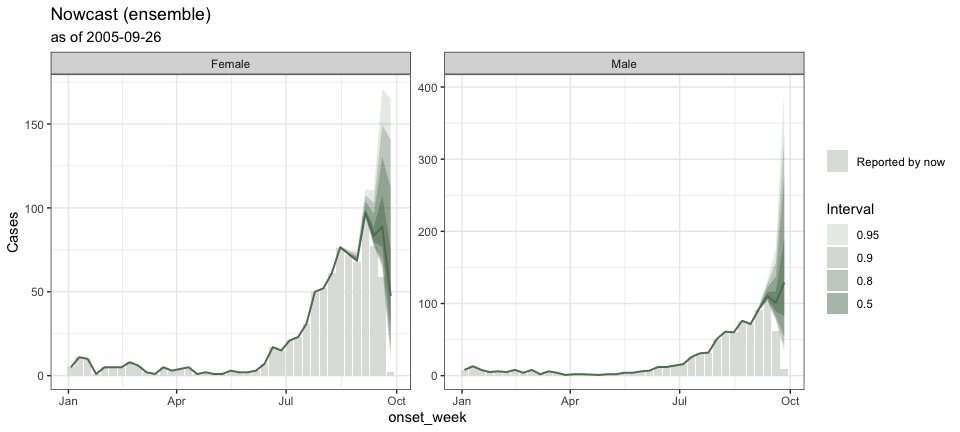
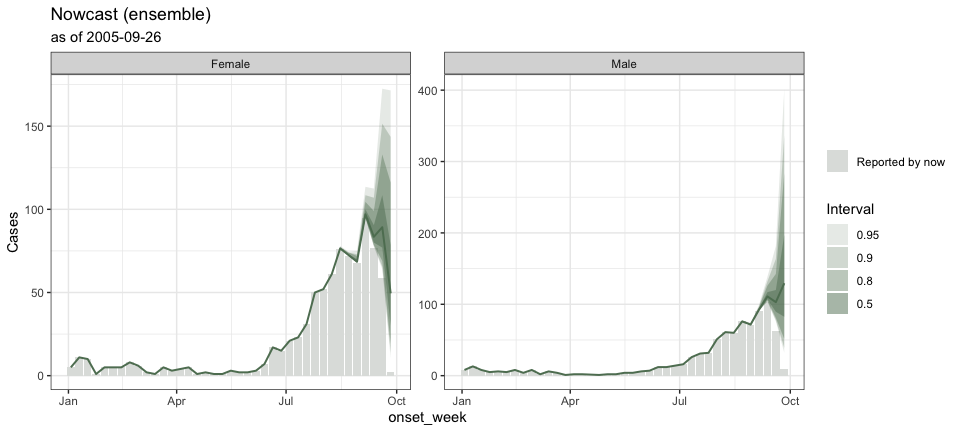
Refresh README, fragment, and figures
Add reproducible seed to README.Rmd and clean up duplicated/edited README copy (fix typos and consolidate the "Learning more" fragment). Simplify the inst/fragments comment, reword and expand the Learning more links (add ensemble and custom model pages, clarify diagnostics/tutorial entries), and update the generated man figures (three PNGs were refreshed). These are presentation/documentation changes and regenerate vignette images for consistency.

diff --git a/README.md b/README.md
@@ -18,15 +18,6 @@ status](https://www.r-pkg.org/badges/version/tbl.now)](https://CRAN.R-project.or
 extension of the [`tibble()`](https://tibble.tidyverse.org/) for
 storing, validating, and manipulating epidemiological nowcasting data.
 It standardizes the representation of event dates, report dates, strata,
-temporal covariates, and data types (linelist and cumulative), ensuring
-that downstream models within the
-[`diseasenowcasting`](https://rodrigozepeda.github.io/diseasenowcasting/)
-ecosystem can rely on a consistent interface.
-
-[`tbl.now`](https://rodrigozepeda.github.io/tbl.now/) rovides an
-extension of the [`tibble()`](https://tibble.tidyverse.org/) for
-storing, validating, and manipulating epidemiological nowcasting data.
-It standardizes the representation of event dates, report dates, strata,
 temporal covariates, etc and in a way that is compatible with many
 frameworks including diseasenowcasting, epinowcast, NobBS, surveillance,
 EpiNow2, and more.
@@ -377,7 +368,7 @@ pak::pkg_install("RodrigoZepeda/tbl.now")
 and checkout our articles starting with the
 [Introduction](https://rodrigozepeda.github.io/tbl.now/articles/tbl.now.html):
 
-<!-- Single source for "Learning more"; pulled in as a knitr child by README.Rmd and every article. Edit here only. Blank lines inside this comment would leak as &#10; into the rendered README, so keep it to one line. Callers locate this file with system.file("fragments", ...) rather than a relative path: rmarkdown renders into a temp intermediates directory and copies relative resources alongside, so a "../.." path escapes that directory and fails on CI. Links are absolute so they resolve on both GitHub and pkgdown. -->
+<!-- Single source for "Learning more"; pulled in as a knitr child by README.Rmd and every article. Edit on `learning.more.Rmd`.-->
 
 ## Learning more
 
@@ -387,9 +378,14 @@ and checkout our articles starting with the
 - End-to-end tutorial on real, messy surveillance data — cleaning,
   diagnostics and nowcasting:
   <https://rodrigozepeda.github.io/tbl.now/articles/Example.html>
-- Tutorial on detecting batches and other reporting-delay artifacts:
+- Tutorial on diagnosing problems with your dataset, detecting batches
+  and other reporting-delay artifacts:
   <https://rodrigozepeda.github.io/tbl.now/articles/batch-reporting.html>
-- Comparing nowcasting engines on one dataset:
+- Using different nowcasting engines for the same dataset:
   <https://rodrigozepeda.github.io/tbl.now/articles/nowcasting-models.html>
+- Ensemble nowcasting across different engines
+  <https://rodrigozepeda.github.io/tbl.now/articles/ensemble-nowcasting.html>
+- Adding your own nowcasting model
+  <https://rodrigozepeda.github.io/tbl.now/articles/custom-nowcast-models.html>
 - Package reference:
   <https://rodrigozepeda.github.io/tbl.now/reference/>
